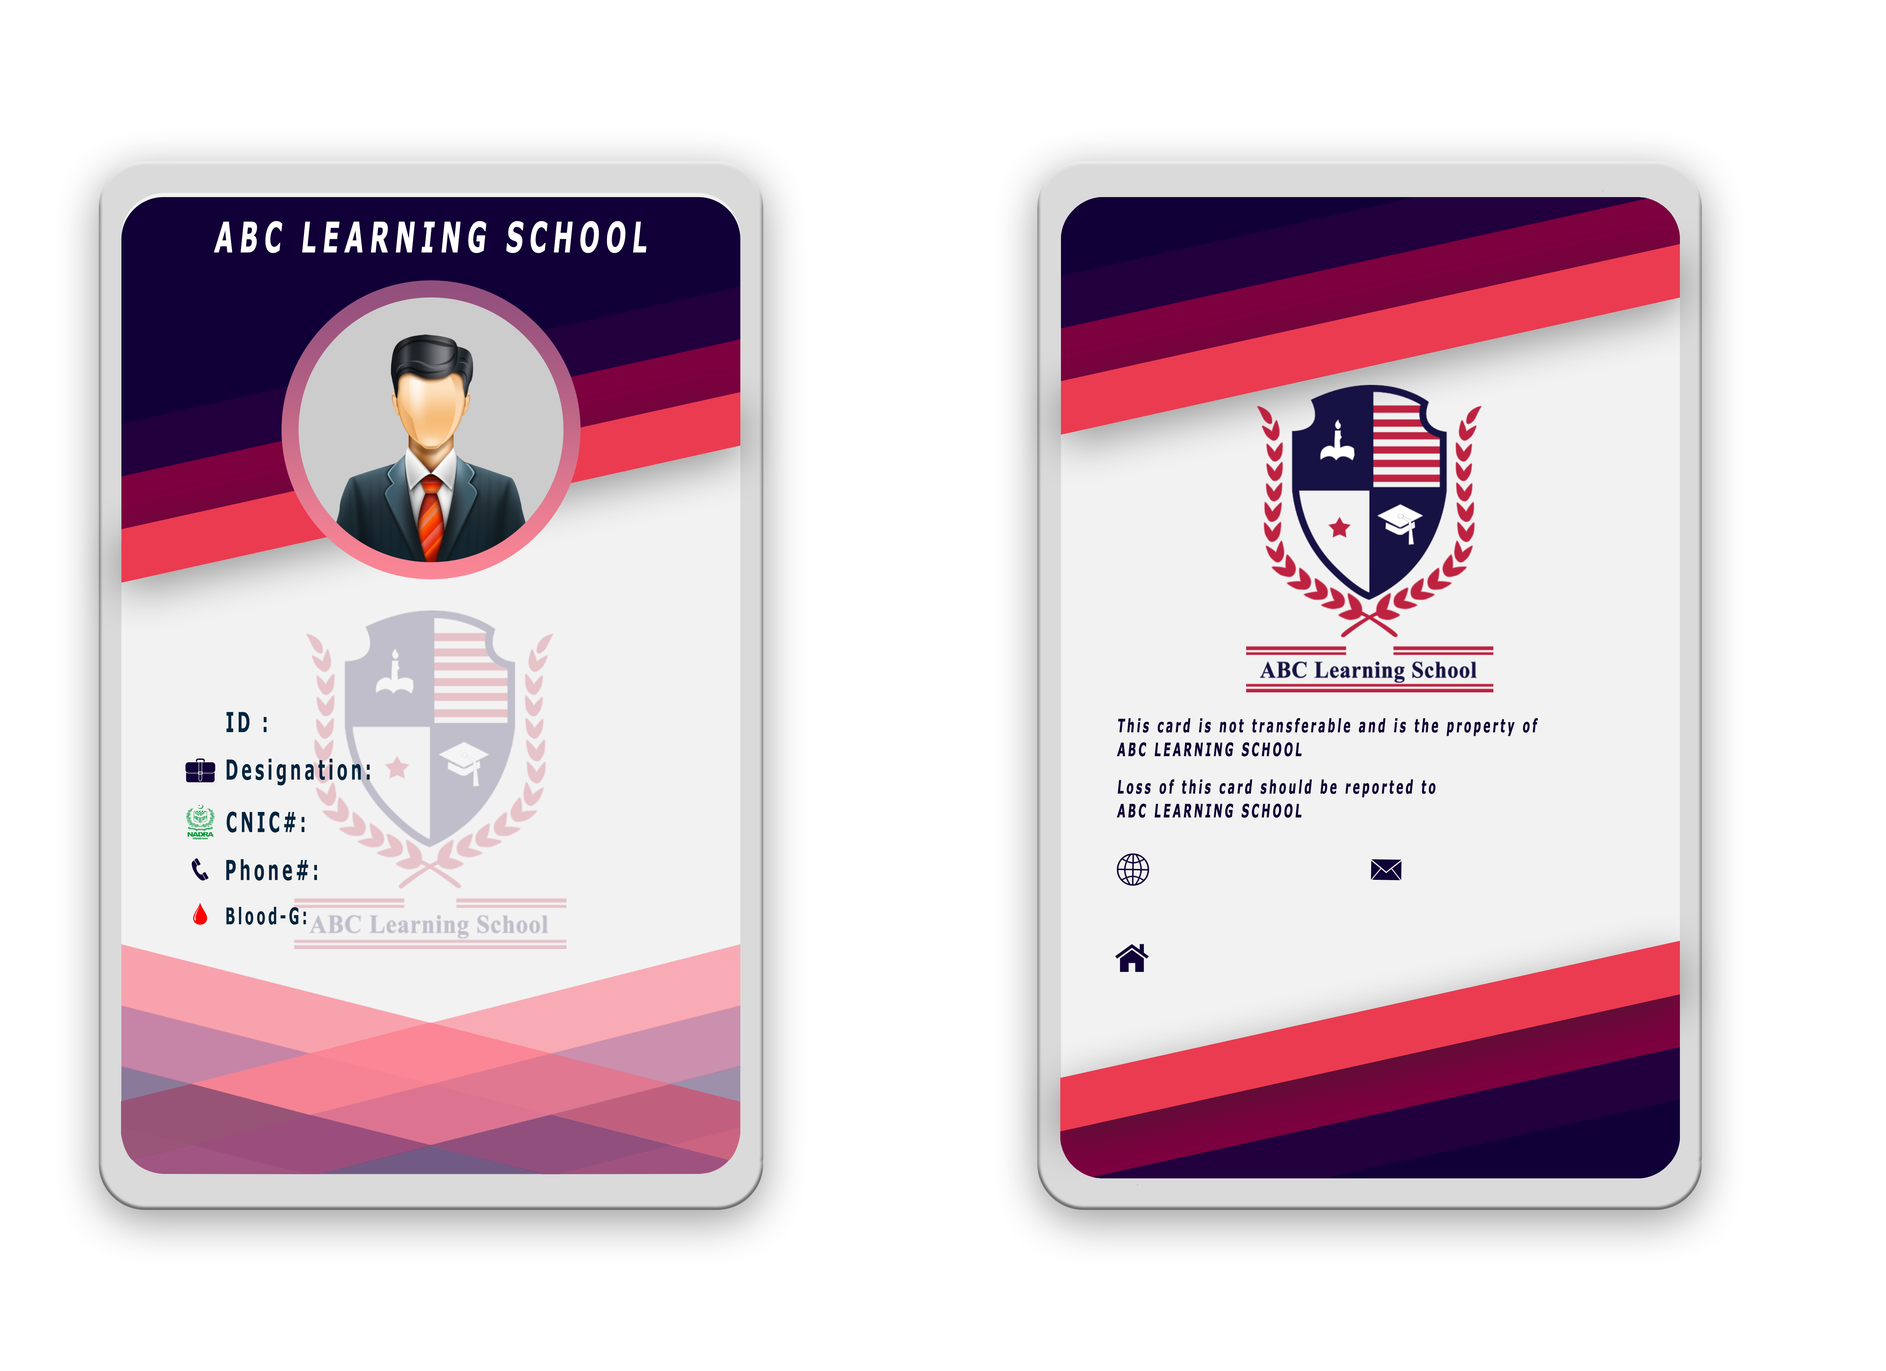
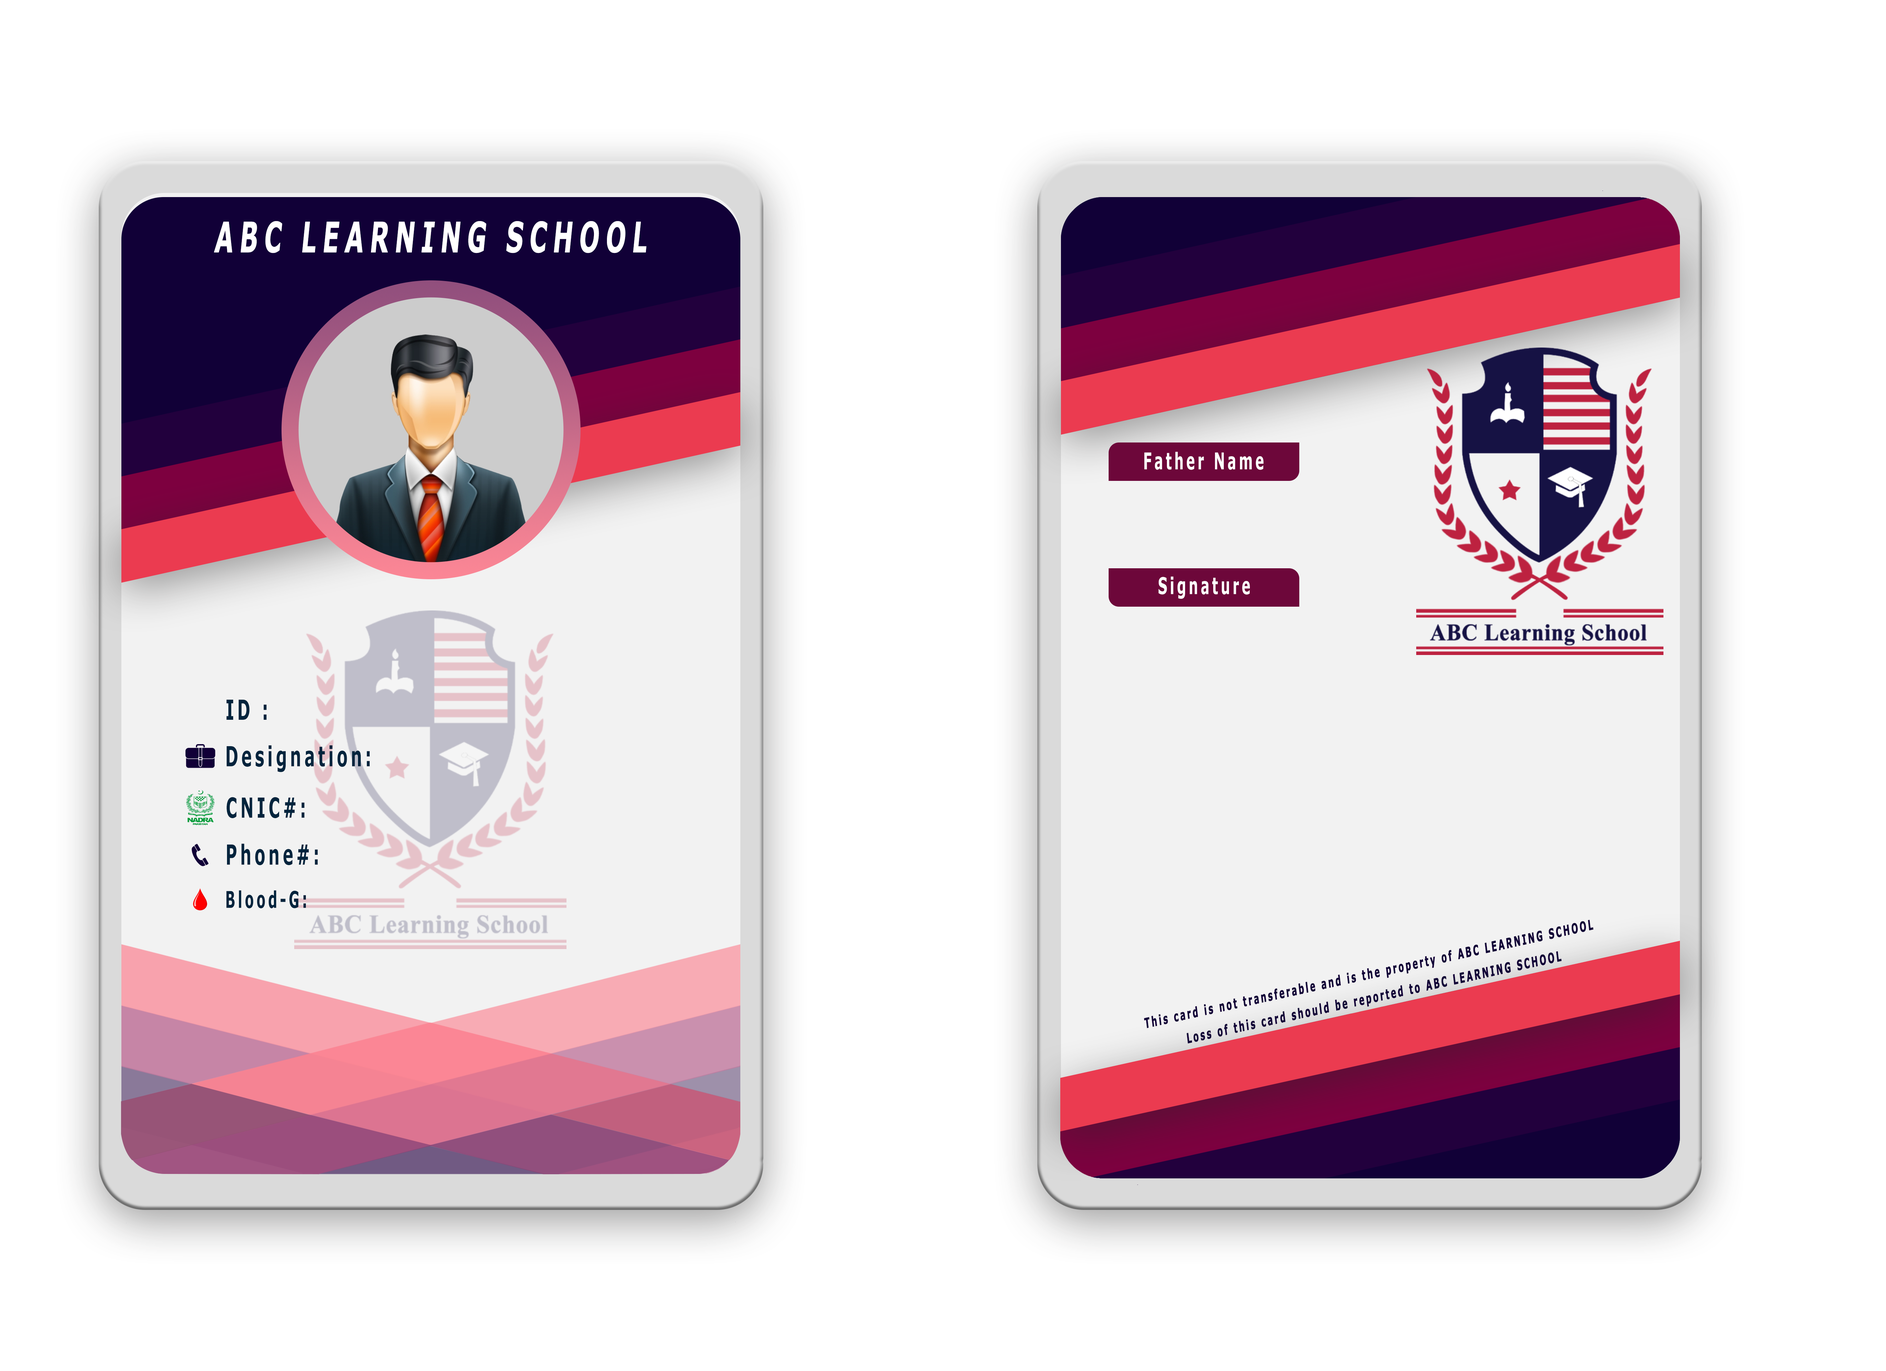
Create Employee ID card and modify std-inquiry

diff --git a/backend/views/emp-info/emp-details.php b/backend/views/emp-info/emp-details.php
@@ -1,27 +1,29 @@
 <script src="https://ajax.googleapis.com/ajax/libs/jquery/3.3.1/jquery.min.js"></script>
-<style media="print" type="text/css">
-  @media print{
-    .employee_card {
-      margin: 0 auto;
-      background-color: #fff !important;
-    }
-    img{
-      position: static;
-    }
-    .employee_card img{
-      border-radius: 50%; 
-      position: absolute; 
-      top: 90px; 
-      left: 105px;
-    }
-  }
-</style>
 <style type="text/css">
   #photo{
     border-radius: 50%; 
     position: absolute; 
     top: 90px; 
     left: 105px;
+  }
+  .emp_id_card{
+    position: absolute;
+    top: 0px;
+    z-index: -1;
+  }
+  @media print {
+    header, nav, footer{
+      display: none;
+    }
+    .row{
+      display: none;
+    }
+    .btn{
+      display: none;
+    }
+    .employee_card{
+      display: show !important;
+    }
   }
 </style>
 <?php 
@@ -167,7 +169,7 @@
                     <?=Html::a(' Edit',['update','id'=>$id],['class'=>'btn btn-primary btn-sm fa fa-edit','role'=>'modal-remote']) ?>
                     <button type="button" class="btn btn-info btn-sm fa fa-comments" data-toggle="modal" data-target="#modal-default"> Send SMS</button>
                      <a href="./emails-create?id=<?php echo $id;?>" class="btn btn-warning btn-sm fa fa-envelope-o" style='color: white;'> Send Email </a>
-                    <button type="button" class="btn btn-default btn-sm bg-navy fa fa-id-card-o" data-toggle="modal" data-target="#modal-id-card"> ID Card</button>
+                    <?=Html::a(' Print ID Card',['print-id-card','id'=>$id],['class'=>'btn btn-default bg-navy btn-sm fa fa-id-card-o']) ?>
                     <div class="modal fade" id="modal-default">
                           <div class="modal-dialog">
                             <div class="modal-content">
@@ -381,79 +383,6 @@
   </section>
   <!-- main content close -->
 </div>	
-<!-- ID Card Modal start -->
-  <div class="modal fade" id="modal-id-card">
-    <div class="modal-dialog">
-      <div class="modal-content">
-        <div class="modal-header">
-          <button type="button" class="close" data-dismiss="modal" aria-label="Close">
-            <span aria-hidden="true">&times;</span></button>
-          <h4 class="modal-title">Employee ID Card</h4>
-        </div>
-        <?php 
-          $empID    = $empInfo[0]['emp_reg_no'];
-          $empName  = $empInfo[0]['emp_name'];
-          $empfName = $empInfo[0]['emp_father_name'];
-          $empCnic  = $empInfo[0]['emp_cnic'];
-          $empPhone = $empInfo[0]['emp_contact_no'];
-          $empPhoto = $empInfo[0]['emp_photo'];
-          $empEmail = $empInfo[0]['emp_email'];
-          $empBlood = "A +ve";
-          $empDesignationName;
-        ?>
-          <div class="modal-body employee_card">  
-            <div class="row">
-              <div class="col-md-12">
-              <div id="id-card">  
-                <img src="images/employee_card.png" width="100%" class="img-responsive">
-                <!-- employee photo -->
-                <img src="<?php echo $empPhoto; ?>" width="80px" height="80px" id="photo">
-                <!-- employee name -->
-                <h4 style="font-family: verdana; position: absolute; top: 170px; left: 100px; color: #110037">
-                  <?php echo $empName; ?>
-                </h4>
-                <!-- employee father name -->
-                <!-- <h5 style="font-family: verdana; position: absolute; top: 182px; left:120px; color: #110037">
-                  <?php echo $empfName; ?>
-                </h5> -->
-                <!-- employee ID -->
-                <h6 style="font-family: verdana; font-size: 10px; position: absolute; top: 203px; left: 100px; color: #110037">
-                  <b><?php echo $empID; ?></b>
-                </h6>
-                <!-- employee designation -->
-                <h6 style="font-family: verdana; font-size: 10px; position: absolute; top: 218px; left: 130px; color: #110037">
-                  <b><?php echo $empDesignationName; ?></b>
-                </h6>
-                <!-- employee cnic -->
-                <h6 style="font-family: verdana; font-size: 10px; position: absolute; top: 233px; left: 110px; color: #110037">
-                  <b><?php echo $empCnic; ?></b>
-                </h6>
-                <!-- employee phone -->
-                <h6 style="font-family: verdana; font-size: 10px; position: absolute; top: 248px; left: 115px; color: #110037">
-                  <b><?php echo $empPhone; ?></b>
-                </h6>
-                <!-- employee phone -->
-                <h6 style="font-family: verdana; font-size: 10px; position: absolute; top: 261px; left: 110px; color: #110037">
-                  <b><?php echo $empBlood; ?></b>
-                </h6>
-                <!-- website address -->
-                <p style="font-family: verdana; position: absolute; right: 160px; bottom: 137px; font-size: 6px; color: #110037">www.abclearning.edu.pk</p>
-                <!-- employee email -->
-                <p style="font-family: verdana; position: absolute; right: 160px; bottom: 137px; font-size: 6px; color: #110037">www.abclearning.edu.pk</p>
-              </div>
-              </div>
-            </div>
-          </div>
-          <div class="modal-footer">
-            <button type="button" class="btn btn-danger btn-sm pull-left" data-dismiss="modal">Close</button>
-            <button type="button" class="btn btn-primary btn-sm fa fa-print" onclick="printContent('id-card')"> Print</button>
-          </div>
-      </div>
-      <!-- /.modal-content -->
-    </div>
-    <!-- /.modal-dialog -->
-  </div>
-  <!-- ID Card Modal CLose -->
 </body>
 </html>
 
@@ -504,12 +433,4 @@ $(document).ready(function(){
         $('#sms').val("Your Consumed SMS: (" + countSMS+ ")");
     });
 });
-// Print Employee ID Card....
-function printContent(el){
-  var restorepage = document.body.innerHTML;
-  var printcontent = document.getElementById(el).innerHTML;
-  document.body.innerHTML = printcontent;
-  window.print();
-  document.body.innerHTML = restorepage;
-}
 </script>

diff --git a/backend/views/emp-info/print-id-card.php b/backend/views/emp-info/print-id-card.php
@@ -1,0 +1,74 @@
+<body onload="window.print();" onafterprint="returnBack()">
+<!-- onload="window.print();" -->
+<?php  
+  // Get `emp_id` from `emp_info` table
+  $id = $_GET['id'];
+  // Employee Personal Info..... 
+  $empInfo = Yii::$app->db->createCommand("SELECT * FROM emp_info WHERE emp_id = '$id'")->queryAll();
+  // Get `emp_designation_id` from `emp_info` table
+  $empDesignationId = $empInfo[0]['emp_designation_id'];
+  // Employee `desigantion_name` from `emp_designation` table against `$empDesignationId`
+  $emp_designation = Yii::$app->db->createCommand("SELECT * FROM emp_designation WHERE emp_designation_id = '$empDesignationId'")->queryAll();
+  $empDesignationName = $emp_designation[0]['emp_designation'];
+?>
+
+<!-- ID Card Modal start -->
+<?php 
+$empID    = $empInfo[0]['emp_reg_no'];
+$empName  = $empInfo[0]['emp_name'];
+$empfName = $empInfo[0]['emp_father_name'];
+$empCnic  = $empInfo[0]['emp_cnic'];
+$empPhone = $empInfo[0]['emp_contact_no'];
+$empPhoto = $empInfo[0]['emp_photo'];
+$empEmail = $empInfo[0]['emp_email'];
+$empBlood = "A +ve";
+$empDesignationName;
+?>
+<div class="modal-body employee_card">  
+<div class="row">
+  <div class="col-md-12">
+  <div id="id-card">  
+    <img src="images/employee_card.png" width="100%" class="img-responsive" style="position: relative; top: 0; left: 0;">
+    <!-- employee photo -->
+    <img src="<?php echo $empPhoto; ?>" width="163px" height="163px" style="position: absolute; top: 183px; left: 197px; border-radius: 100px;">
+    <!-- employee name -->
+	<h3 style="font-family: verdana; position: absolute; top: 335px; left: 180px; color: #110037">
+      <?php echo $empName; ?>
+    </h3>
+    <!-- employee father name -->
+    <h5 style="font-family: verdana; position: absolute; top: 300px; right: 420px; color: #110037">
+      <?php echo $empfName; ?>
+    </h5>
+    <!-- employee ID -->
+    <h5 style="font-family: verdana; position: absolute; top: 418px; left: 250px; color: #110037">
+      <b><?php echo $empID; ?></b>
+    </h5>
+    <!-- employee designation -->
+    <h5 style="font-family: verdana; position: absolute; top: 445px; left: 250px; color: #110037">
+      <b><?php echo $empDesignationName; ?></b>
+    </h5>
+    <!-- employee cnic -->
+    <h5 style="font-family: verdana; position: absolute; top: 477px; left: 250px; color: #110037">
+      <b><?php echo $empCnic; ?></b>
+    </h5>
+    <!-- employee phone -->
+    <h5 style="font-family: verdana; position: absolute; top: 507px; left: 250px; color: #110037">
+      <b><?php echo $empPhone; ?></b>
+    </h5>
+    <!-- employee phone -->
+    <h5 style="font-family: verdana; position: absolute; top: 533px; left: 250px; color: #110037">
+      <b><?php echo $empBlood; ?></b>
+    </h5>
+
+	<img src="uploads/download.png" style="position: absolute; top: 445px; right: 230px;">
+  
+  </div>
+  </div>
+</div>
+</div>
+</body>
+<script>
+function returnBack() {
+  window.location='emp-info-view?id=<?php echo $id; ?>';
+}
+</script>

diff --git a/common/models/StdInquiry.php b/common/models/StdInquiry.php
@@ -53,7 +53,7 @@ class StdInquiry extends \yii\db\ActiveRecord
     public function rules()
     {
         return [
-            [['std_inquiry_no', 'inquiry_session', 'std_name', 'std_father_name', 'gender', 'std_father_contact_no', 'std_inquiry_date', 'std_intrested_class', 'std_previous_class', 'previous_institute', 'std_roll_no', 'std_obtained_marks', 'std_total_marks', 'std_percentage'], 'required'],
+            [['inquiry_session', 'std_name', 'std_father_name', 'gender', 'std_father_contact_no', 'std_inquiry_date', 'std_intrested_class', 'std_previous_class', 'previous_institute', 'std_roll_no', 'std_obtained_marks', 'std_total_marks', 'std_percentage'], 'required'],
             [['branch_id', 'std_obtained_marks', 'std_total_marks', 'created_by', 'updated_by'], 'integer'],
             [['gender', 'inquiry_status'], 'string'],
             [['branch_id','std_inquiry_date', 'created_at', 'updated_at','inquiry_status', 'created_by', 'updated_by', 'refrence_name', 'refrence_contact_no', 'refrence_designation', 'std_address', 'comment', 'std_contact_no'], 'safe'],
@@ -77,7 +77,7 @@ class StdInquiry extends \yii\db\ActiveRecord
     public function attributeLabels()
     {
         return [
-            'std_inquiry_id' => 'Student Inquiry ID',
+            'std_inquiry_id' => 'Inquiry No',
             'branch_id' => 'Branch ID',
             'std_inquiry_no' => 'Student Inquiry No',
             'inquiry_session' => 'Inquiry Session',

diff --git a/backend/controllers/StdInquiryController.php b/backend/controllers/StdInquiryController.php
@@ -118,6 +118,7 @@ class StdInquiryController extends Controller
             }else if($model->load($request->post()) && $model->validate()){
                 $transaction = \Yii::$app->db->beginTransaction();
                 try {
+                    
                     $branch_id = Yii::$app->user->identity->branch_id;
                     $model->branch_id = $branch_id;
                     $preClass = $model->std_previous_class[0];
@@ -127,7 +128,6 @@ class StdInquiryController extends Controller
                     $intrestedClass = $model->std_intrested_class[0];
                     $model->std_intrested_class = $intrestedClass;
 
-                    
                     $model->created_by = Yii::$app->user->identity->id; 
                     $model->created_at = new \yii\db\Expression('NOW()');
                     $model->updated_by = '0';
@@ -135,7 +135,7 @@ class StdInquiryController extends Controller
                     $model->save();
 
                     $transaction->commit();
-                        Yii::$app->session->setFlash('warning', "You have successfully add record...!");
+                        Yii::$app->session->setFlash('success', "You have successfully add new record...!");
                 } catch (Exception $e) {
                     $transaction->rollBack();
                     Yii::$app->session->setFlash('error', "Transaction Failed, Try Again...!");

diff --git a/backend/views/std-inquiry/_form.php b/backend/views/std-inquiry/_form.php
@@ -12,9 +12,9 @@ use common\models\StdClassName;
 /* @var $model common\models\StdInquiry */
 /* @var $form yii\widgets\ActiveForm */
  
-$stdInquiry = StdInquiry::find()->orderBy(['std_inquiry_id'=> SORT_DESC])->one();
-$id = $stdInquiry['std_inquiry_id']+1;
-$year = date('y');
+// $stdInquiry = StdInquiry::find()->orderBy(['std_inquiry_id'=> SORT_DESC])->one();
+// $id = $stdInquiry['std_inquiry_id']+1;
+//$year = date('y');
 
 ?>
 
@@ -22,9 +22,7 @@ $year = date('y');
     <?php $form = ActiveForm::begin(); ?>
     <h3 style="color: #337AB7; margin-top: -10px"><small> ( Fields with <span style="color: red;">red stars </span>are required )</small> </h3>
     <div class="row">
-        <div class="col-md-4">
-            <?= $form->field($model, 'std_inquiry_no')->textInput(['maxlength' => true,'value'=> 'STD-Y'.$year.'-0'.$id, 'readonly'=> true]) ?>
-        </div>
+        
         <div class="col-md-4">
             <?php   $sDate = date('Y'); 
                     $eDate = $sDate + 1;

diff --git a/vendor/dmstr/yii2-adminlte-asset/example-views/yiisoft/yii2-backend-app/layouts/content.php b/vendor/dmstr/yii2-adminlte-asset/example-views/yiisoft/yii2-backend-app/layouts/content.php
@@ -39,13 +39,20 @@ use dmstr\widgets\Alert;
 
 <footer class="main-footer" style="background-color: #000000; color: white; font-family: serif;">
     <div class="pull-right hidden-xs">
-        <b style="color:gold;"><i>Beta Version</b> 1.0</i>
+        
     </div>
     <i>Copyright &copy; <?php echo date('Y'); ?>
         <a href="http://www.dexdevs.com" target="_blank" style="color:gold;">
             <b>DEXDEVS</b>
         </a> /  All Rights Reserved.
+
+        <span style="margin-left: 150px">
+            <i>For <span style="color: gold;">Technical Support</span> Feel Free to Contact Us 24/7 on <span style="color:gold;">(0300-6999824)</span></i>
+        </span>
     </i>
+    <div class="pull-right hidden-xs">
+        <b style="color:gold;"><i>Beta Version</b> 1.0</i>
+    </div>
 </footer>
 
 <!-- Control Sidebar -->

diff --git a/backend/controllers/EmpInfoController.php b/backend/controllers/EmpInfoController.php
@@ -34,7 +34,7 @@ class EmpInfoController extends Controller
                         'allow' => true,
                     ],
                     [
-                        'actions' => ['logout', 'index', 'create', 'view', 'update', 'delete', 'bulk-delete','emp-details'],
+                        'actions' => ['logout', 'index', 'create', 'view', 'update', 'delete', 'bulk-delete','emp-details', 'print-id-card'],
                         'allow' => true,
                         'roles' => ['@','view'],
                     ],
@@ -94,6 +94,11 @@ class EmpInfoController extends Controller
     public function actionView($id)
     {
        return $this->render('emp-details'); 
+    }
+
+    public function actionPrintIdCard($id)
+    {
+       return $this->render('print-id-card'); 
     }
 
    

diff --git a/backend/controllers/StdEnrollmentDetailController.php b/backend/controllers/StdEnrollmentDetailController.php
@@ -113,8 +113,8 @@ class StdEnrollmentDetailController extends Controller
                         'model' => $model,
                         'stdEnrollmentHead' => $stdEnrollmentHead,
                     ]),
-                    'footer'=> Html::button('Close',['class'=>'btn btn-success pull-left','data-dismiss'=>"modal"]).
-                                Html::button('Save',['class'=>'btn btn-danger','type'=>"submit"])
+                    'footer'=> Html::button('Close',['class'=>'btn btn-danger pull-left','data-dismiss'=>"modal"]).
+                                Html::button('Save',['class'=>'btn btn-success','type'=>"submit"])
         
                 ];         
             }else if($stdEnrollmentHead->load($request->post()) && $model->load($request->post())){

diff --git a/backend/views/std-inquiry/_columns.php b/backend/views/std-inquiry/_columns.php
@@ -10,14 +10,15 @@ return [
         'class' => 'kartik\grid\SerialColumn',
         'width' => '30px',
     ],
-    // [
-    //     'class'=>'\kartik\grid\DataColumn',
-    //     'attribute'=>'std_inquiry_id',
-    // ],
     [
         'class'=>'\kartik\grid\DataColumn',
-        'attribute'=>'std_inquiry_no',
+        'attribute'=>'std_inquiry_id',
     ],
+    // [
+    //     'class'=>'\kartik\grid\DataColumn',
+    //     'attribute' => 'std_inquiry_no',
+        
+    // ],
     // [
     //     'class'=>'\kartik\grid\DataColumn',
     //     'attribute'=>'branch_id',

diff --git a/vendor/dmstr/yii2-adminlte-asset/example-views/yiisoft/yii2-backend-app/layouts/header.php b/vendor/dmstr/yii2-adminlte-asset/example-views/yiisoft/yii2-backend-app/layouts/header.php
@@ -40,9 +40,6 @@ use yii\helpers\Html;
 
         <div class="navbar-custom-menu">
             <ul class="nav navbar-nav">
-                <li>
-                    <p style="color: #FFF; margin: 18px 50px;  font-family: serif;"><i><b>For Technical Support Feel Free to Contact Us 24/7 on (0300-6999824)</b></i></p>
-                </li>
                 <!-- Messages: style can be found in dropdown.less-->
                 <li class="dropdown messages-menu invisible">
                     <a href="#" class="dropdown-toggle" data-toggle="dropdown">

diff --git a/backend/views/std-enrollment-detail/_form.php b/backend/views/std-enrollment-detail/_form.php
@@ -37,7 +37,7 @@ $in = 1;
         <div class="row">
             <div class="col-md-6">
                 <?= $form->field($stdEnrollmentHead, 'section_id')->dropDownList(
-                    ArrayHelper::map(StdSections::find()->where(['delete_status'=>1])->all(),'section_id','section_name'),
+                    ArrayHelper::map(StdSections::find()->where(['delete_status'=>1,'branch_id'=> $branch_id])->all(),'section_id','section_name'),
                     ['prompt'=>'Select Section','id'=>'sectionId']
                 )?>
             </div>

diff --git a/common/models/StdInquirySearch.php b/common/models/StdInquirySearch.php
@@ -90,7 +90,7 @@ class StdInquirySearch extends StdInquiry
             return $dataProvider;
         } else {
             $branch_id = Yii::$app->user->identity->branch_id;
-            $query = StdInquiry::find()->where(['branch_id' => $branch_id]);;
+            $query = StdInquiry::find()->where(['branch_id' => $branch_id]);
 
             $dataProvider = new ActiveDataProvider([
                 'query' => $query,
